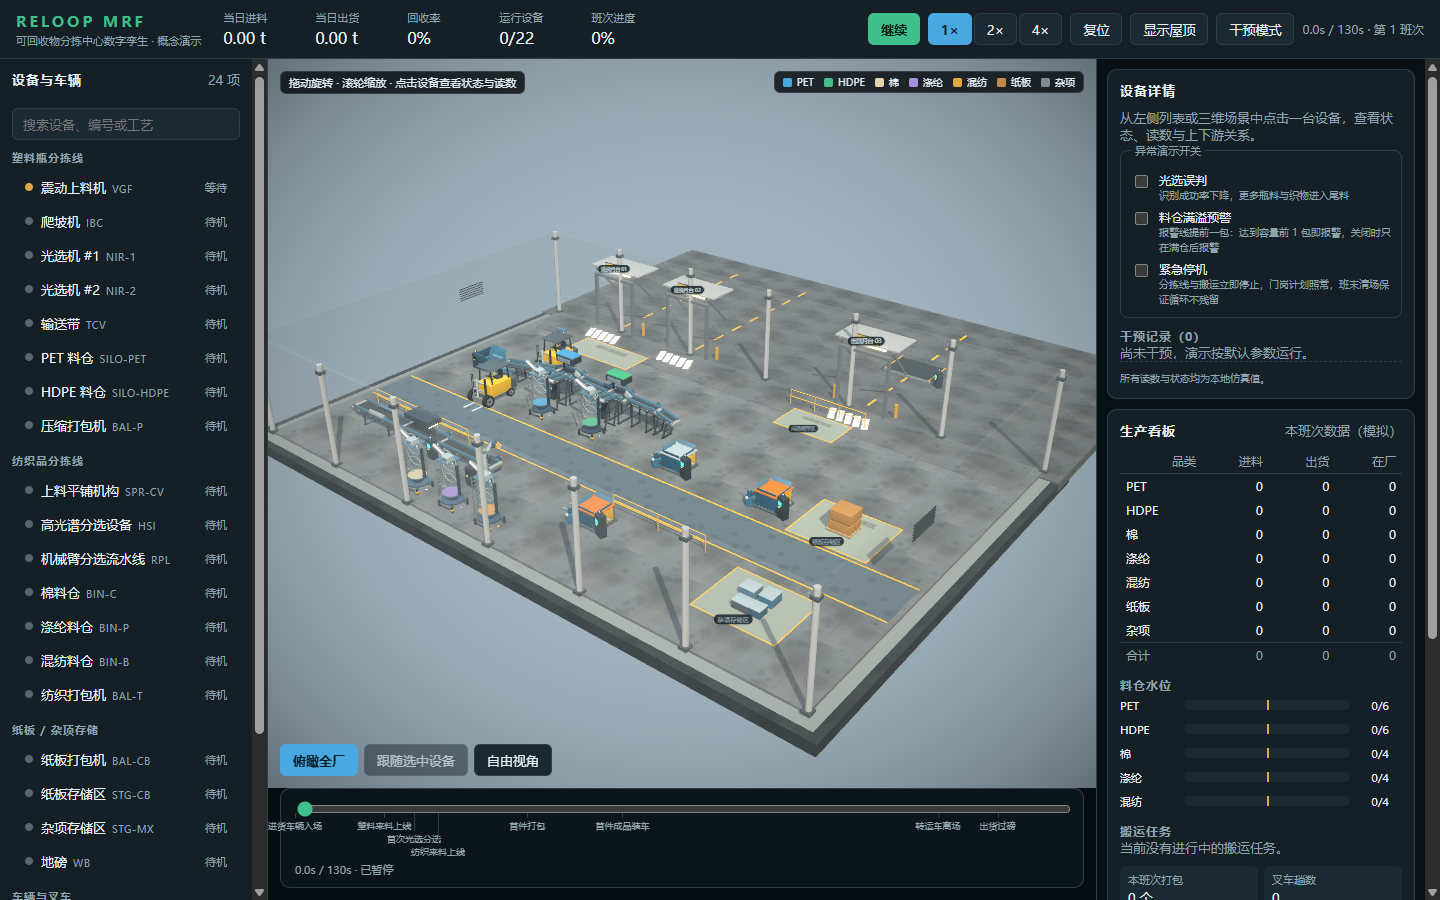
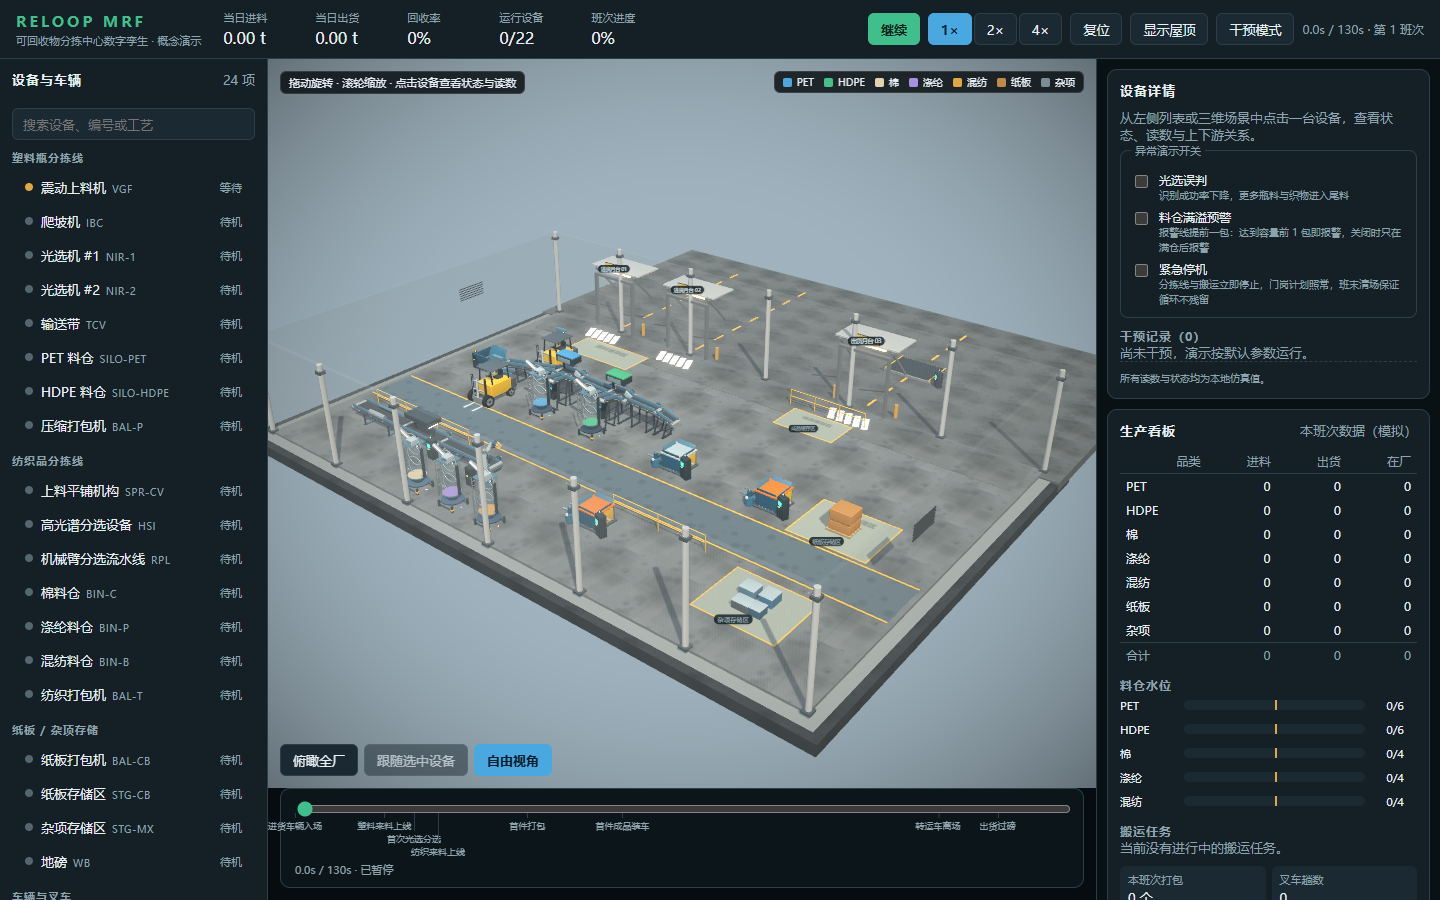
文档：线上复验记录与截图说明更新（默认自由视角）
- VALIDATION.md 补「重新部署与线上复验」：运行 39217643319 全绿、新构建哈希、
  同源 3 条请求全 200、相机按钮组状态、线上首帧与本地逐字节相同
- screenshots/README.md：live/dekstop/narrow 首屏说明改为默认自由视角并补 md5

diff --git a/docs/screenshots/README.md b/docs/screenshots/README.md
@@ -22,7 +22,7 @@
 | `desktop-06-enclosed.png` | 1440×900 | 37.8 s | 俯瞰机位下切到屋顶实体：彩钢瓦墙板、屋面压型接缝与长边厂牌；此模式下隐藏悬浮标签 |
 | `narrow-01-initial.png` | 390×844 | 0.0 s（暂停） | 窄屏首屏（默认自由视角）：三块纵向堆叠，操作提示与材质图例分两行，竖屏机位按宽高比拉远、整块沙盘入画 |
 | `narrow-02-panel.png` | 390×844 | 0.0 s（滚到底） | 窄屏滚到底：料仓水位、搬运任务、近 7 日进出货量与「演示数据」边界说明 |
-| `live-01-deployed.png` | 1440×900 | 0.0 s（暂停） | GitHub Pages 线上首帧（`https://yuhaoxiong.github.io/recycling-mrf-digital-twin/`）：与 `desktop-01-initial.png` 逐字节相同 |
+| `live-01-deployed.png` | 1440×900 | 0.0 s（暂停） | GitHub Pages 线上首帧（`https://yuhaoxiong.github.io/recycling-mrf-digital-twin/`）：默认自由视角，与 `desktop-01-initial.png` 逐字节相同（md5 `8f36763e…`） |
 | `live-02-running.png` | 1440×900 | 约 7 s | 线上点「继续」后：验证部署环境的播放、相机与仿真时钟均正常 |
 
 > 截图仅用于人眼核对，不参与任何自动化测试；`docs/VALIDATION.md` 记录当时观察到的问题、修复项与仍未验证的部分。

diff --git a/docs/VALIDATION.md b/docs/VALIDATION.md
@@ -300,6 +300,15 @@
 
 同时重拍了两张基线截图：`desktop-01-initial.png`（md5 `8f36763e8e3a015d6f940c0e385fdd71`）、`narrow-01-initial.png`（md5 `aa325b10f8e0137b33d041fa071b097d`）。
 
+### 3. 重新部署与线上复验
+
+推送后 GitHub Actions 运行 `39217643319` 全绿（构建 + 测试 + 发布）。线上复验：
+
+- `index.html` 已引用新构建 `assets/index-oPBwMOQ2.js`（200 / 1342380 B），CSS 未变（`index-D6dRfcgS.css`）。
+- 线上页面错误 0、控制台 0、同源请求 3 条全 200（文档 / JS / CSS），无外部主机。
+- 相机按钮组状态为 `俯瞰全厂:false / 跟随选中设备:false / 自由视角:true`——**默认确实是自由视角**；`document.title` 与 `canvas` 正常。
+- 线上首帧截图 md5 `8f36763e8e3a015d6f940c0e385fdd71`，与本地 `desktop-01-initial.png` **逐字节相同**，部署链路无差异。
+
 ## 未验证项
 
 - 跨浏览器矩阵（Safari / Firefox）与真实触控手势未测；帧率是在 headless Chromium（ANGLE D3D11 / RTX 4070 Laptop）上测的，rAF 不受 vsync 限制，**122–151 FPS 是渲染上限而非屏幕刷新率，不能外推**到真机；显存占用与低端设备表现未测。
